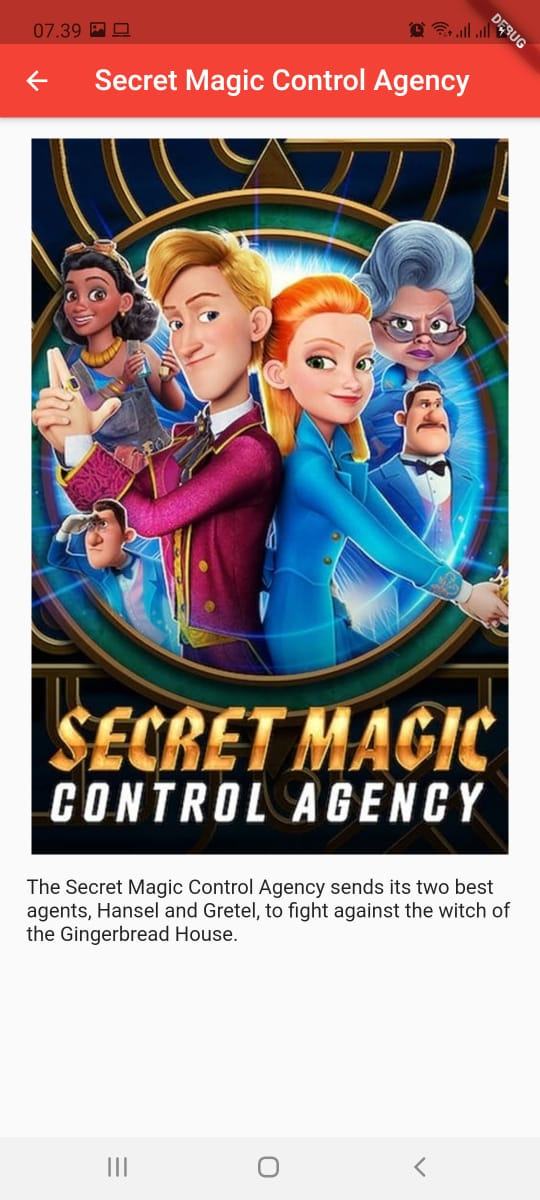
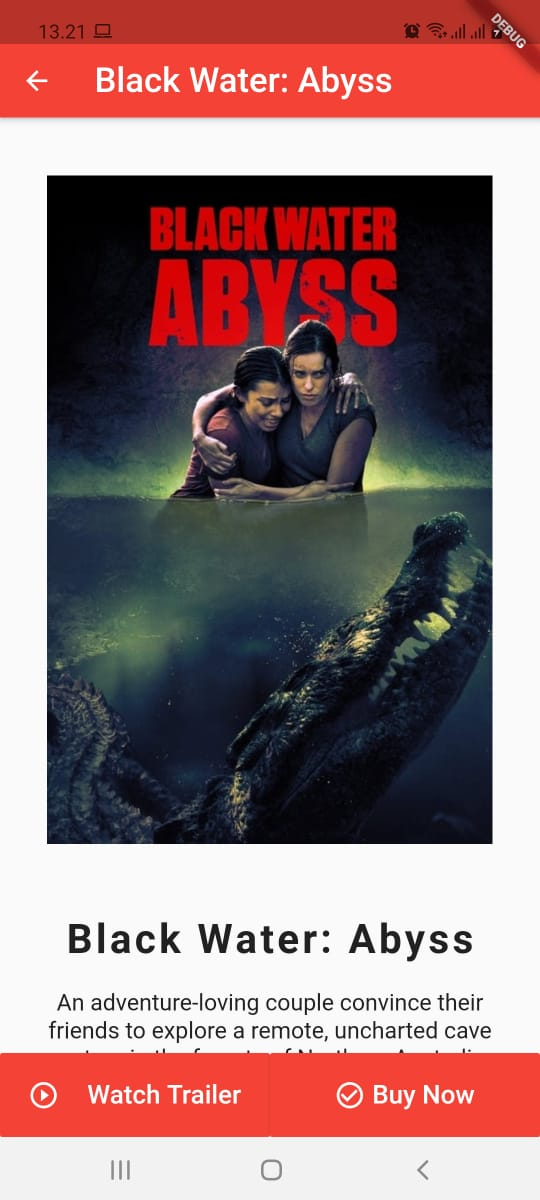
modif_http

diff --git a/lib/pages/movie_detail.dart b/lib/pages/movie_detail.dart
@@ -19,9 +19,13 @@ class MovieDetail extends StatelessWidget {
     double height = MediaQuery.of(context).size.height;
     return Scaffold(
       appBar: AppBar(
-        title: Text(movie.title),
+        title: Text(movie.title, style: TextStyle(fontSize: 24)),
       ),
       body: SingleChildScrollView(
+        padding: const EdgeInsets.symmetric(
+          vertical: 10,
+          horizontal: 20,
+        ),
         child: Center(
           child: Column(
             children: [
@@ -30,14 +34,95 @@ class MovieDetail extends StatelessWidget {
                 height: height / 1.5,
                 child: Image.network(path),
               ),
+              SizedBox(
+                height: 20,
+              ),
+              Text(
+                movie.title,
+                style: TextStyle(
+                  fontSize: 28,
+                  fontWeight: FontWeight.bold,
+                  letterSpacing: 2.5,
+                ),
+                textAlign: TextAlign.center,
+              ),
+              SizedBox(
+                height: 20,
+              ),
               Container(
-                child: Text(movie.overview),
-                padding: EdgeInsets.only(left: 20, right: 20),
+                child: Text(
+                  movie.overview,
+                  style: TextStyle(
+                    fontSize: 16,
+                    height: 1.2,
+                  ),
+                  textAlign: TextAlign.center,
+                ),
+                padding: EdgeInsets.only(left: 16, right: 16),
+              ),
+              SizedBox(
+                height: 20,
               ),
             ],
           ),
         ),
       ),
+      bottomNavigationBar: Row(children: <Widget>[
+        Expanded(
+          child: RaisedButton(
+            padding: const EdgeInsets.only(
+              top: 20,
+              bottom: 20,
+            ),
+            onPressed: () {},
+            color: Theme.of(context).primaryColor,
+            textColor: Colors.white,
+            child: Row(
+              mainAxisAlignment: MainAxisAlignment.spaceEvenly,
+              children: <Widget>[
+                Icon(
+                  Icons.play_circle_outline,
+                ),
+                Text(
+                  'Watch Trailer',
+                  style: TextStyle(
+                    fontSize: 18,
+                  ),
+                ),
+              ],
+            ),
+          ),
+        ),
+        Expanded(
+          child: RaisedButton(
+            padding: const EdgeInsets.only(
+              top: 20,
+              bottom: 20,
+            ),
+            onPressed: () {},
+            color: Theme.of(context).primaryColor,
+            textColor: Colors.white,
+            child: Row(
+              mainAxisAlignment: MainAxisAlignment.center,
+              children: <Widget>[
+                Icon(
+                  Icons.check_circle_outline,
+                ),
+                Container(
+                  height: 5,
+                  width: 5,
+                ),
+                Text(
+                  'Buy Now',
+                  style: TextStyle(
+                    fontSize: 18,
+                  ),
+                ),
+              ],
+            ),
+          ),
+        ),
+      ]),
     );
   }
 }

diff --git a/lib/pages/movie_list.dart b/lib/pages/movie_list.dart
@@ -32,8 +32,7 @@ class _MovieListState extends State<MovieList> {
   @override
   Widget build(BuildContext context) {
     String path;
-
-    return Scaffold(
+return Scaffold(
       appBar: AppBar(
         title: Text("Popular Movies"),
       ),
